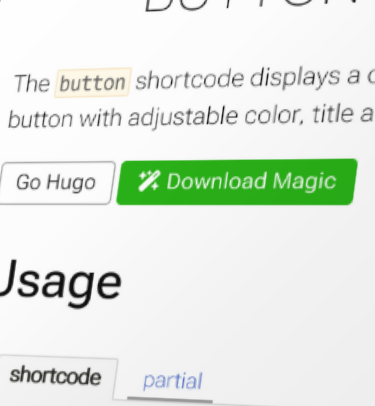
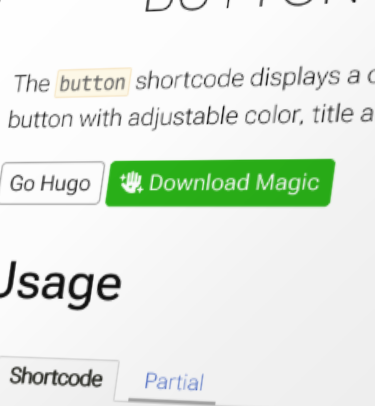
docs: regenerate screenshots #1273

diff --git a/docs/content/shortcodes/siteparam/_index.en.md b/docs/content/shortcodes/siteparam/_index.en.md
@@ -6,13 +6,17 @@ title = 'SiteParam'
 
 The `siteparam` shortcode prints values of site-wide params contained in your `hugo.toml`.
 
+{{% multishortcode name="siteparam" print="false" %}}
+name = "siteparam.test.greetings"
+{{% /multishortcode %}}
+
 ## Usage
 
-To print params from a page's front matter and falling back to the site options, use Hugo's built-in [`param` shortcode](https://gohugo.io/shortcodes/param/).
-
 {{% multishortcode name="siteparam" execute="false" %}}
-name = "editURL"
+name = "siteparam.test.greetings"
 {{% /multishortcode %}}
+
+To print params from a page's front matter and falling back to the site options, use Hugo's built-in [`param` shortcode](https://gohugo.io/shortcodes/param/).
 
 ### Parameters
 

diff --git a/docs/content/shortcodes/tabs/_index.en.md b/docs/content/shortcodes/tabs/_index.en.md
@@ -9,21 +9,16 @@ The `tabs` shortcode displays arbitrary content in an unlimited number of tabs.
 
 {{% multishortcode name="tabs" print="false" %}}
 content:
-  - title: "Python Saying"
+  - title: "Python"
     content: "The AI native programming language."
-  - title: "Terminal Sourcecode"
+  - title: "Bash"
     content: |
       ````bash
       echo "For guys who like to tinker."
       ````
-  - title: "C Ramblings"
+  - title: "C"
     color: "fuchsia"
     content: "For the connoisseur of programming."
-  - title: "C++ Ramblings++"
-    color: "red"
-    content: "For the guys that can cope with syntax."
-  - title: "C# ~~GC is cool~~"
-    content: "For guys that need two destructors."
 {{% /multishortcode %}}
 
 ## Usage

diff --git a/docs/content/development/screenshooting/_index.en.md b/docs/content/development/screenshooting/_index.en.md
@@ -97,7 +97,7 @@ To recreate the screenshots
 - run `npm ci`
 - run `npm run screenshots`
 
-The script serves the documentation itself on port 3132, captures each page and writes the result back into `docs/content/<shortcode>/featured.png` of the resolved theme checkout. To capture against a server you are already running instead, pass its address:
+The script serves the documentation itself on port 3132, captures the page of every directory below `docs/content/shortcodes` and writes the result back into `docs/content/shortcodes/<shortcode>/featured.png` of the resolved theme checkout. To capture against a server you are already running instead, pass its address:
 
 ````shell
 npm run screenshots -- --base=http://localhost:1313
